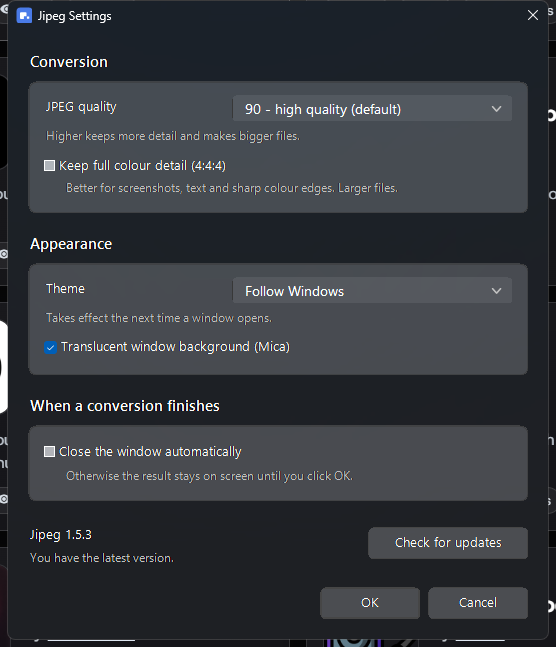
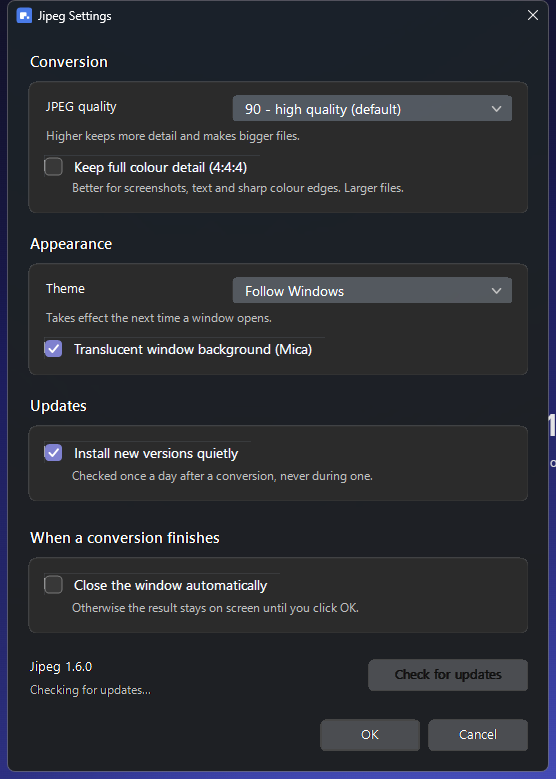
v1.7.0 — painted check boxes, rounded lists, quiet updates, versioned settings
Check boxes
- The glyph is painted here now: a rounded square, accent-filled with a white
  tick when on, outlined when off. No built-in style is presentable in dark mode
  and SetWindowTheme breaks the control, so this was the only way. It is still a
  real CheckBox, so focus, Space and accessibility keep working.
- Its background has to stay opaque. Transparent, the control's own caption
  shows through under the painted one and the text renders twice.

Drop-downs
- The list is a separate system window of class ComboLBox. Windows 11 rounds it
  and gives it a border once asked, just after the list opens.

Two things found while measuring rather than by eye
- The cards were never opaque. Over Mica, the background WinForms fills in for a
  control carries no alpha and the backdrop bleeds through: a card set to
  #2B2B2B measured #494B50 on screen. Surfaces are now filled with a GDI+ brush,
  and labels on them are transparent so the card's fill shows through - left
  opaque, every line of text wore a lighter rectangle.
- Two quality entries both read "light, for the web". Every value now has its
  own wording.

Quiet updates
- Once a day, after a conversion and never during one, a detached hidden check
  installs a newer release. Only this repository, only a strictly higher
  version, and only if the archive matches the SHA-256 GitHub publishes for it.
  It runs the release's own installer with -Silent and never -ClassicMenu, so
[…]

diff --git a/README.md b/README.md
@@ -69,7 +69,8 @@ Right-click an image → **Convert to JPEG (Jipeg)**.
 | **Theme** | Follow Windows, or force Light or Dark. |
 | **Translucent window background (Mica)** | The Windows 11 Mica material behind the windows. Ignored when the theme is forced to the opposite of the Windows one. |
 | **Close the window automatically** | Off by default, so the result stays until you dismiss it. |
-| **Updates** | The window checks for a newer release on its own when it opens, without blocking. If one exists the button becomes *Open download page*. It never downloads or runs anything by itself. |
+| **Install new versions quietly** | Once a day, after a conversion and never during one, Jipeg looks for a newer release and installs it without showing anything. Only from this repository, only a strictly higher version, and only if the archive matches the SHA-256 GitHub publishes for it. Turn it off and nothing is fetched. |
+| **Check for updates** | The settings window also checks when it opens, without blocking. If a newer release exists the button becomes *Open download page*. |
 
 ## Supported formats
 
@@ -142,11 +143,21 @@ corners Windows 11 draws itself. What needed doing by hand:
   than the frame holding it and offset on every side: the border and the arrow fall outside
   and are clipped away, leaving a clean rounded field, and a chevron is drawn in their place.
   The list items are owner-drawn so they follow the theme.
-- **Check boxes** have no single style that works in dark mode: `Standard` draws a white box
-  when unticked but the correct blue box with a white tick when ticked, and `Flat` does the
-  opposite. So the style follows the state. `SetWindowTheme` does not help; it breaks the
-  control outright. `NumericUpDown` cannot be darkened at all, which is why quality is a
-  drop-down.
+- **Check boxes are painted here.** No built-in style is presentable in dark mode: `Standard`
+  draws a white box when unticked, `Flat` an unreadable light one when ticked, and
+  `SetWindowTheme` breaks the control outright. The glyph is drawn instead — a rounded square,
+  accent-filled with a white tick when on. It is still a real `CheckBox`, so focus, Space and
+  accessibility keep working. Its background must stay opaque: left transparent, the control's
+  own caption shows through underneath the painted one and the text renders twice.
+  `NumericUpDown` cannot be darkened at all, which is why quality is a drop-down.
+- **Opaque means painting it yourself.** Over Mica, the background WinForms fills in for a
+  control carries no alpha and the backdrop bleeds through it. A card set to `#2B2B2B`
+  measured `#494B50` on screen. Surfaces are filled with a GDI+ brush, and the labels sitting
+  on them are transparent so the card's own fill shows — otherwise every line of text wears a
+  lighter rectangle.
+- **The drop-down list is a separate system window** of class `ComboLBox`. Windows 11 will
+  round it and give it a border, but only once it exists, so it is asked just after the list
+  opens.
 
 ## Layout
 
@@ -158,6 +169,7 @@ bin/cjpegli.exe          the jpegli encoder (+ component licences)
 src/Jipeg-Common.ps1     settings, theming and Win32 helpers
 src/Jipeg-Convert.ps1    the converter and its progress window
 src/Jipeg-Settings.ps1   the settings window
+src/Jipeg-Update.ps1     the quiet update check
 src/Install-Jipeg.ps1    installer (window, or -Silent for deployment)
 src/Uninstall-Jipeg.ps1
 src/launch.vbs           starts the converter without a console window
